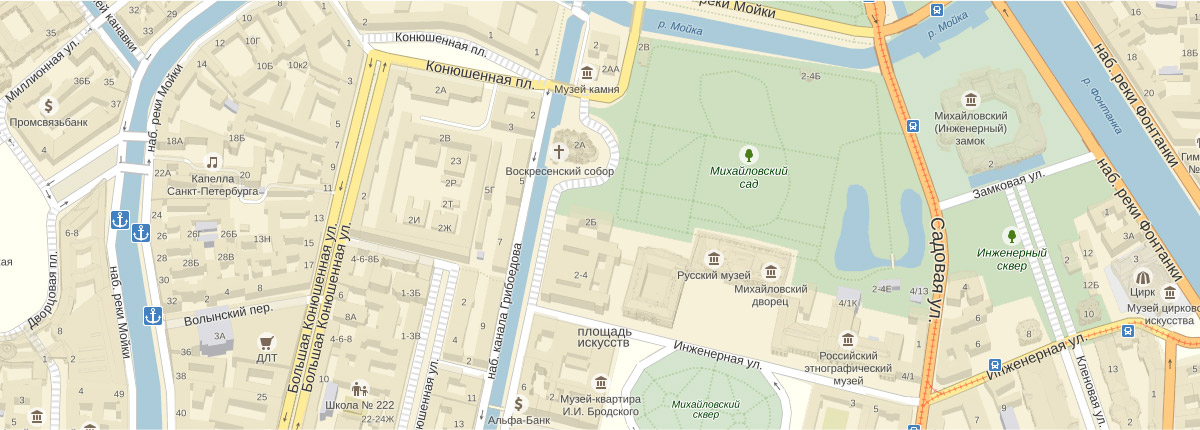
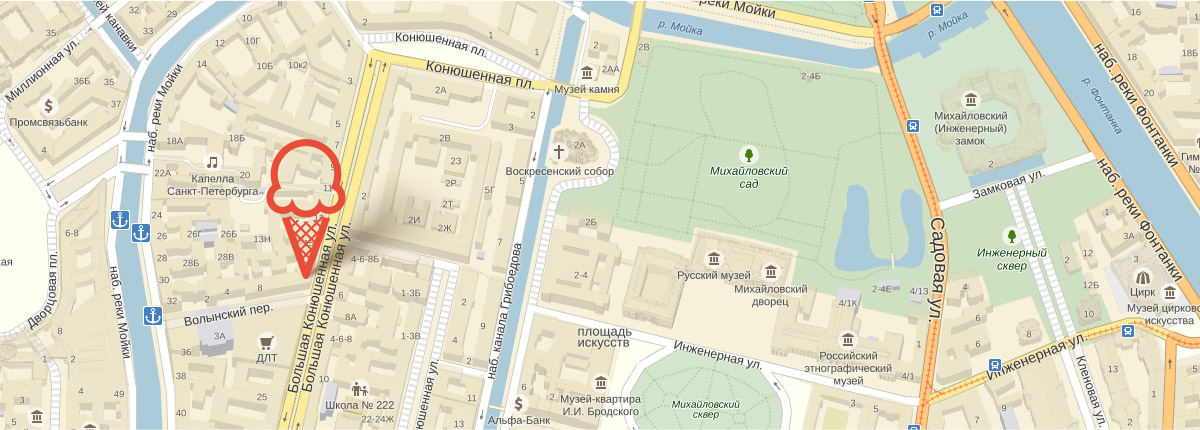
Правки PP.

Changed region(s): [[0.2158, 0.3023, 0.37, 0.6651]]

diff --git a/css/style.css b/css/style.css
@@ -51,7 +51,6 @@ img {
   max-width: 1200px;
   min-width: 900px;
   margin: 0 auto;
-  padding-top: 10px;
 }
 .visually-hidden {
   position: absolute;
@@ -81,11 +80,9 @@ img {
 .bg-glow {
   background-image: linear-gradient( to bottom, rgba(255, 255, 255, 0.2) 0%, rgba(132, 157, 143, 0.99) 600px);
 }
-
-}
 /*====== .main-header =======*/
 .main-header {
-  padding-top: 10px;
+  margin-top: 10px;
 }
 .wrapper {
   padding-left: 2.3%;
@@ -142,7 +139,8 @@ img {
   font-weight: bold;
   color: rgb(255, 255, 255);
   padding: 5px 13px;
-  text-decoration: underline rgba(255, 255, 255, .2);
+  -webkit-text-decoration: underline rgba(255, 255, 255, .2);
+          text-decoration: underline rgba(255, 255, 255, .2);
 }
 .main-nav__item:hover .main-nav__sub-list, .main-nav__item:focus + .main-nav__sub-list {
   display: block;
@@ -921,7 +919,7 @@ label {
   display: flex;
   flex-direction: column;
   width: 23.2%;
-  margin-bottom: 45px;
+  margin-bottom: 40px;
   text-align: center;
 }
 .product__item--icon {
@@ -956,12 +954,13 @@ label {
   font-size: 30px;
 }
 .product__description {
-  padding-top: 5px;
+  padding-top: 10px;
   position: relative;
   display: block;
   font-weight: 500;
   color: rgb(255, 255, 255);
-  text-decoration: underline rgba(255, 255, 255, .2);
+  -webkit-text-decoration: underline rgba(255, 255, 255, .2);
+          text-decoration: underline rgba(255, 255, 255, .2);
 }
 .btn-product {
   display: none;
@@ -1001,6 +1000,7 @@ label {
 }
 .page-control__item {
   line-height: 18px;
+  font-weight: 500;
   color: #fff;
   padding: 5px 10px;
   border-radius: 50%;
@@ -1061,7 +1061,7 @@ label {
 }
 /*============== advantages =================*/
 .advantages {
-  margin-bottom: 42px;
+  margin-bottom: 45px;
   background-image: url(../img/bg-waffle.jpg);
   background-repeat: repeat;
   border-radius: 15px;
@@ -1209,9 +1209,6 @@ label {
 }
 /*========== map ================*/
 .map {
-  position: relative;
-  display: flex;
-  align-items: center;
   min-height: 430px;
   margin-top: 40px;
   background-image: url(../img/bg-map.jpg);
@@ -1220,26 +1217,20 @@ label {
   background-color: #f7f1d9;
   background-size: cover;
 }
-.map::before {
-  content: '';
-  position: absolute;
-  width: 80px;
-  height: 140px;
-  top: 140px;
-  left: 50%;
-  background-image: url(../img/pin.svg);
-  background-repeat: no-repeat;
-}
 .map-interactive {
   width: 100vw;
 }
+.contacts__wrapper {
+  max-width: 1200px;
+  min-width: 900px;
+  min-height: 430px;
+  margin: 0 auto;
+  display: flex;
+  justify-content: flex-end;
+  align-items: center;
+}
 .contacts {
   width: 302px;
-  position: absolute;
-  top: 50%;
-  right: 0;
-  transform: translateY(-50%);
-  margin-left: auto;
   background-color: rgba(255, 255, 255, 0.98);
   padding: 30px 25px;
   color: rgb(50, 50, 50);
@@ -1247,6 +1238,7 @@ label {
   font-size: 14px;
   line-height: 20px;
   min-height: 305px;
+  margin-right: 2.3%;
 }
 .contacts__address {
   margin: 0;
@@ -1349,7 +1341,8 @@ label {
   font-size: 13px;
   line-height: 18px;
   color: rgb(255, 255, 255);
-  text-decoration: underline rgba(255, 255, 255, .2);
+  -webkit-text-decoration: underline rgba(255, 255, 255, .2);
+          text-decoration: underline rgba(255, 255, 255, .2);
 }
 .footer-menu__item--heart {
   position: relative;
@@ -1360,9 +1353,12 @@ label {
   width: 15px;
   height: 15px;
   top: 5px;
-  left: -20px;
+  left: -23px;
   background-image: url(../img/heart.svg);
   background-repeat: no-repeat;
+}
+.main-footer__copyright {
+  margin-top: -10px;
 }
 .copyright {
   font-size: 12px;
@@ -1380,7 +1376,8 @@ label {
   font-size: 12px;
   line-height: 18px;
   color: rgb(254, 254, 254);
-  text-decoration: underline rgba(255, 255, 255, .2);
+  -webkit-text-decoration: underline rgba(255, 255, 255, .2);
+          text-decoration: underline rgba(255, 255, 255, .2);
 }
 /*====== .feedback ======*/
 .modal {
@@ -1400,6 +1397,9 @@ label {
   height: 100%;
   background: rgba(0, 0, 0, .3);
   z-index: 10;
+}
+.modal-overlay--show {
+  display: block;
 }
 .modal-feedback {
   top: 50%;
@@ -1458,6 +1458,15 @@ label {
   padding: 10px 25px;
   align-self: flex-end;
 }
+input:-ms-input-placeholder, textarea:-ms-input-placeholder {
+  color: rgb(153, 153, 153);
+}
+input::-ms-input-placeholder, textarea::-ms-input-placeholder {
+  color: rgb(153, 153, 153);
+}
 input::placeholder, textarea::placeholder {
   color: rgb(153, 153, 153);
+}
+.modal-feedback--show {
+  display: block;
 }

diff --git a/index.html b/index.html
@@ -28,7 +28,7 @@
               </ul>
             </nav>
             <section class="user-nav" aria-label="Клиентская навигация">
-              <div class="search">
+              <div class="search" tabindex="0">
                 <a class="search__btn">Поиск</a>
                 <div class="search__box">
                   <form class="search__form" method="post" action="https://echo.htmlacademy.ru">
@@ -96,9 +96,9 @@
               <a class="btn slides__btn" href="#">Давайте оба!</a>
             </div>
             <div class="inners">
-              <i class="slider__inner slider__inner--active">&bull;</i>
-              <i class="slider__inner">&bull;</i>
-              <i class="slider__inner">&bull;</i>
+              <i class="slider__inner slider__inner--active" tabindex="0">&bull;</i>
+              <i class="slider__inner" tabindex="0">&bull;</i>
+              <i class="slider__inner" tabindex="0">&bull;</i>
             </div>
           </section>
         </div>
@@ -183,12 +183,14 @@
         </div>
       </main>
     </div>
-    <section class="map" id="map" aria-label="Навигационная карта, как нас найти!">
-      <iframe class="map-interactive" src="https://www.google.com/maps/embed?pb=!1m18!1m12!1m3!1d1998.598942412403!2d30.320894616187918!3d59.938796869047835!2m3!1f0!2f0!3f0!3m2!1i1024!2i768!4f13.1!3m3!1m2!1s0x4696310fca5ba729%3A0xea9c53d4493c879f!2z0JHQvtC70YzRiNCw0Y8g0JrQvtC90Y7RiNC10L3QvdCw0Y8g0YPQuy4sIDE5LCDQodCw0L3QutGCLdCf0LXRgtC10YDQsdGD0YDQsywgMTkxMTg2!5e0!3m2!1sru!2sru!4v1522942359982" width="100%" height="430" frameborder="0" style="border:0" allowfullscreen></iframe>
-      <div class="contacts">
-        <p class="contacts__address">Адрес главного офиса <br>и офлайн-магазина:<b class="text-bold">ул. Большая Конюшенная 19/8, Санкт-Петербург</b></p>
-        <p class="contacts__phone">Для заказов по телефону:<b class="text-bold">8 812 450-25-25</b>(с 10 до 20 ежедневно)</p>
-        <a href="#" class="btn contacts__btn">Форма обратной связи</a>
+    <section class="map" aria-label="Навигационная карта, как нас найти!">
+      <!-- <iframe class="map-interactive" src="https://www.google.com/maps/embed?pb=!1m18!1m12!1m3!1d1998.598942412403!2d30.320894616187918!3d59.938796869047835!2m3!1f0!2f0!3f0!3m2!1i1024!2i768!4f13.1!3m3!1m2!1s0x4696310fca5ba729%3A0xea9c53d4493c879f!2z0JHQvtC70YzRiNCw0Y8g0JrQvtC90Y7RiNC10L3QvdCw0Y8g0YPQuy4sIDE5LCDQodCw0L3QutGCLdCf0LXRgtC10YDQsdGD0YDQsywgMTkxMTg2!5e0!3m2!1sru!2sru!4v1522942359982" width="100%" height="430" frameborder="0" style="border:0" allowfullscreen></iframe> -->
+      <div class="contacts__wrapper">
+        <div class="contacts">
+          <p class="contacts__address">Адрес главного офиса <br>и офлайн-магазина:<b class="text-bold">ул. Большая Конюшенная 19/8, Санкт-Петербург</b></p>
+          <p class="contacts__phone">Для заказов по телефону:<b class="text-bold">8 812 450-25-25</b>(с 10 до 20 ежедневно)</p>
+          <a href="#" class="btn contacts__btn">Форма обратной связи</a>
+        </div>
       </div>
     </section>
 

diff --git a/catalog.html b/catalog.html
@@ -14,7 +14,7 @@
             <a class="logo" href="index.html"><img src="img/logo.svg" width="154" height="64" alt="Магазин мороженного «Gllacy Shop»"></a>
             <nav class="main-nav">
               <ul class="main-nav__list">
-                <li class="main-nav__item"><a href="catalog.html">Каталог</a>
+                <li class="main-nav__item main-nav__item--active"><a href="catalog.html">Каталог</a>
                   <ul class="main-nav__sub-list">
                     <li class="sub-list__item--strong"><a href="#">Новинки</a></li>
                     <li class="sub-list__item"><a href="#">Сливочное</a></li>
@@ -28,7 +28,7 @@
               </ul>
             </nav>
             <section class="user-nav" aria-label="Клиентская навигация">
-              <div class="search">
+              <div class="search" tabindex="0">
                 <a class="search__btn">Поиск</a>
                 <div class="search__box">
                   <form class="search__form" method="post" action="https://echo.htmlacademy.ru">
@@ -116,13 +116,13 @@
                 <legend class="radio__title">Жирность:</legend>
                 <div class="radio__box">
                   <input type="radio" name="filters-radio" id="filters-radio-zero-percent" class="visually-hidden">
-                  <label for="filters-radio-zero-percent">0%</label>
+                  <label for="filters-radio-zero-percent" tabindex="0">0%</label>
                   <input type="radio" name="filters-radio" id="filters-radio-to-ten-percent" class="visually-hidden">
-                  <label for="filters-radio-to-ten-percent">до 10%</label>
+                  <label for="filters-radio-to-ten-percent" tabindex="0">до 10%</label>
                   <input type="radio" name="filters-radio" id="filters-radio-to-thirty-percent" class="visually-hidden">
-                  <label for="filters-radio-to-thirty-percent">до 30%</label>
+                  <label for="filters-radio-to-thirty-percent" tabindex="0">до 30%</label>
                   <input type="radio" name="filters-radio" id="filters-radio-more-thirty-percent" class="visually-hidden">
-                  <label for="filters-radio-more-thirty-percent">выше 30%</label>
+                  <label for="filters-radio-more-thirty-percent" tabindex="0">выше 30%</label>
                 </div>
               </fieldset>
               <fieldset class="checkbox">
@@ -140,7 +140,7 @@
                   <label for="checkbox-jams">джемы</label>
                 </div>
               </fieldset>
-              <button class="filters__btn" type="submit">Применить</button>
+              <button class="filters__btn" type="submit" method="post">Применить</button>
             </form>
           </section>
 

diff --git a/js/scripts.js b/js/scripts.js
@@ -1,15 +1,10 @@
-// Создаем маркер на карте
-var marker = new google.maps.Marker({
+var link = document.querySelector(".contacts__btn ");
+var popup = document.querySelector(".modal-feedback");
+var overlay = document.querySelector(".modal-overlay");
 
-                // Определяем позицию маркера
-                position: {lat: 59.938741, lng: 30.323041},
-
-                // Указываем на какой карте он должен появится. (На странице ведь может быть больше одной карты)
-                map: map,
-
-                // Пишем название маркера - появится если навести на него курсор и немного подождать
-                title: 'htmlacademy',
-
-                // Укажем свою иконку для маркера
-                icon: '../img/pin.svg'
+link.addEventListener("click", function(evt){
+  evt.preventDefault();
+  popup.classList.add("modal-feedback--show");
+  overlay.classList.add("modal-overlay--show");
 });
+
